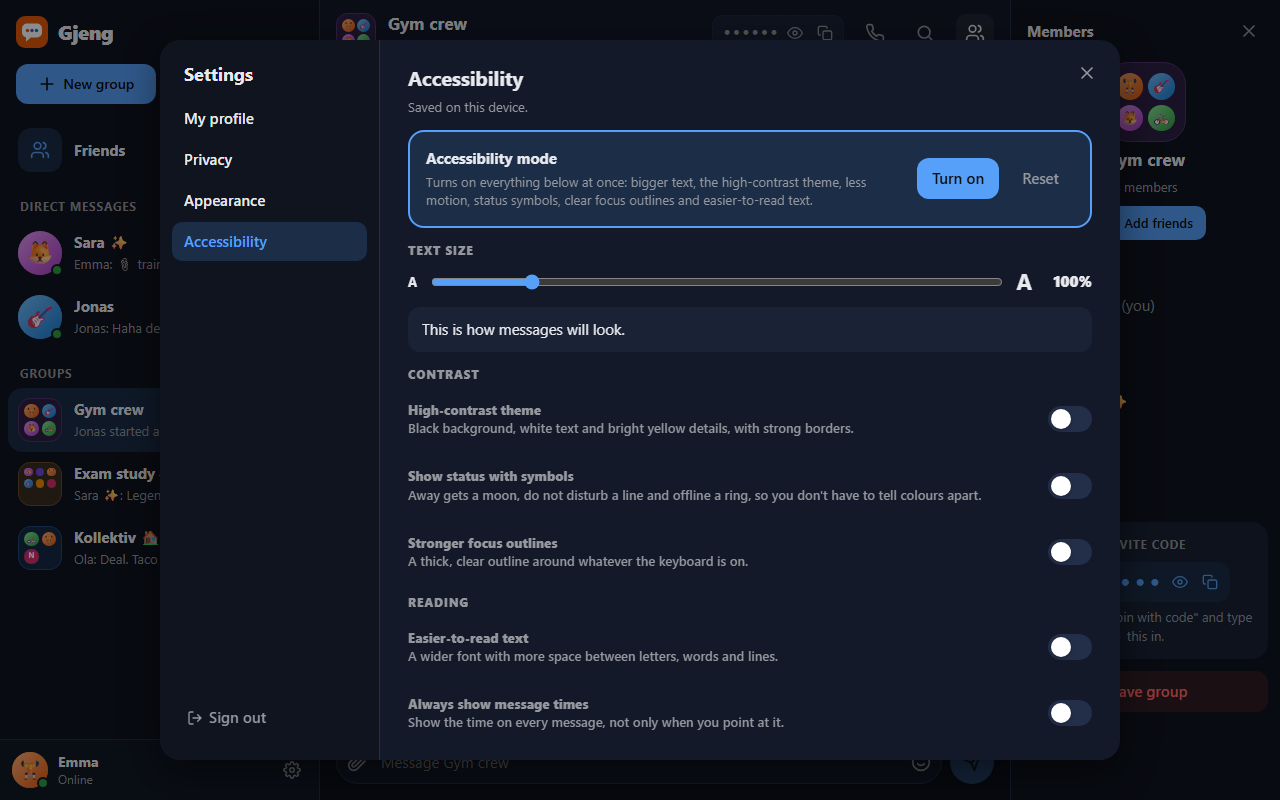
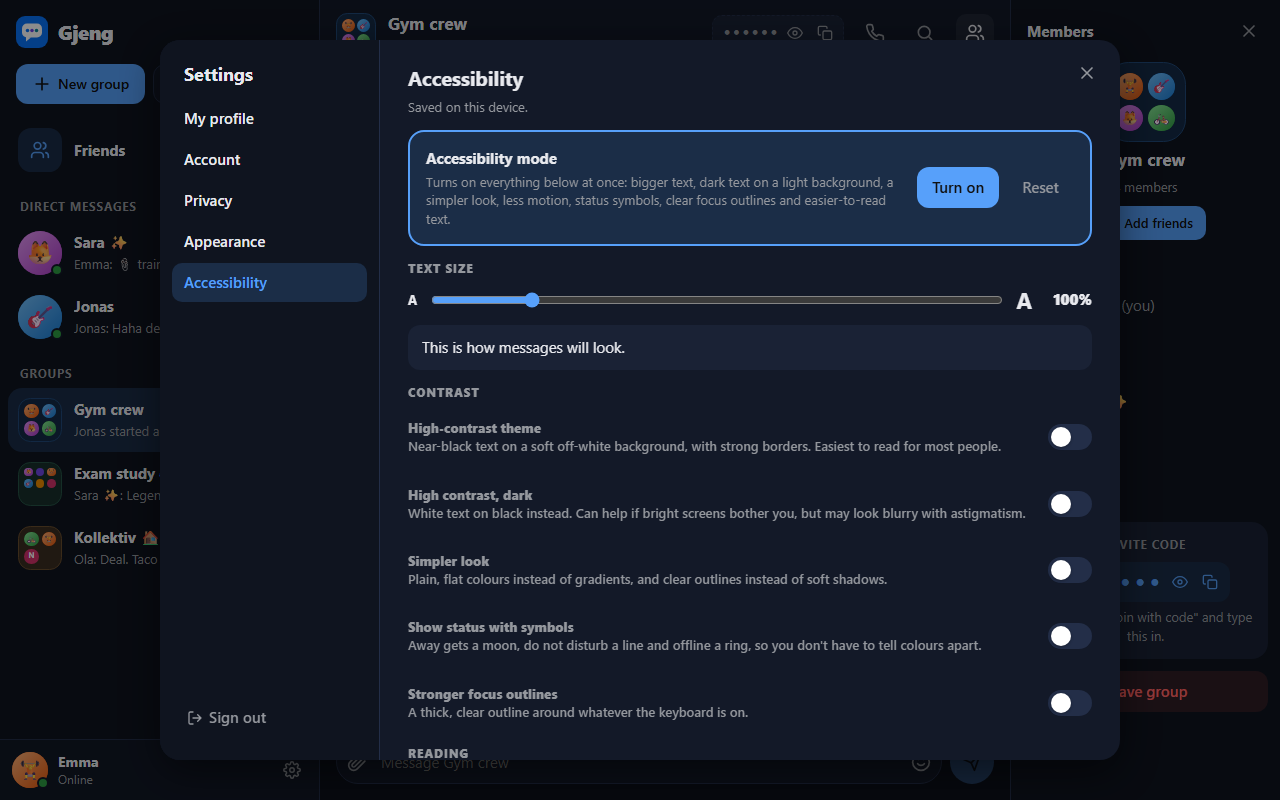
Make accessibility mode dark-on-light with a simpler look
Accessibility mode now uses a light high-contrast theme (near-black on a
warm off-white, about 18:1) instead of white on black, which reads
better for most people and avoids blur with astigmatism and glare for
dyslexic readers. White on black stays available as "High contrast
dark". A new "Simpler look" setting removes gradients and soft shadows
in favour of flat colours and clear outlines. Sidebar buttons wrap
instead of overflowing with bigger text. A test checks the light
background and a contrast of at least 7:1.

diff --git a/client/src/prefs.jsx b/client/src/prefs.jsx
@@ -16,13 +16,19 @@ export const THEMES = {
   'retro-dark': { label: 'Retro dark', dark: true, base: '#0b1a12', accent: '#3ddc84', text: '#b6f5c8', font: 'retro' },
   midnight: { label: 'Midnight', dark: true, base: '#101a33', accent: '#60a5fa' },
   forest: { label: 'Forest', dark: true, base: '#10251b', accent: '#86d993' },
-  'high-contrast': { label: 'High contrast', dark: true, base: '#000000', accent: '#ffd400', text: '#ffffff', contrast: 'high' },
+  // Dark text on a light background reads best for most people (white on black can blur, e.g. with
+  // astigmatism), so accessibility mode uses this one: near-black on a warm off-white, which keeps the
+  // contrast very high without the glare of pure white. The dark one is for light-sensitive eyes.
+  'high-contrast-light': { label: 'High contrast', dark: false, base: '#f7f3ea', accent: '#a33a00', text: '#111111', contrast: 'high' },
+  'high-contrast': { label: 'High contrast dark', dark: true, base: '#000000', accent: '#ffd400', text: '#ffffff', contrast: 'high' },
 };
 
 export const DEFAULT_APPEARANCE = { theme: 'system', base: null, accent: null, text: null };
 
 export const DEFAULT_ACCESSIBILITY = {
   textScale: 1,
+  simpleLook: false,
+  mode: false, // true while "accessibility mode" is on
   reduceMotion: 'system', // 'system' | 'on' | 'off'
   statusSymbols: false,
   strongFocus: false,
@@ -31,18 +37,21 @@ export const DEFAULT_ACCESSIBILITY = {
   announceMessages: true,
 };
 
-// "Accessibility mode": bigger text, high contrast, calm motion and clearer signals, all at once.
+// "Accessibility mode": bigger text, high contrast (black on white), a simpler look,
+// calm motion and clearer signals, all at once.
 export const ACCESSIBILITY_MODE = {
   accessibility: {
     ...DEFAULT_ACCESSIBILITY,
+    mode: true,
     textScale: 1.15,
+    simpleLook: true,
     reduceMotion: 'on',
     statusSymbols: true,
     strongFocus: true,
     readableText: true,
     alwaysShowTimes: true,
   },
-  appearance: { ...DEFAULT_APPEARANCE, theme: 'high-contrast' },
+  appearance: { ...DEFAULT_APPEARANCE, theme: 'high-contrast-light' },
 };
 
 const prefersDark = () => window.matchMedia('(prefers-color-scheme: dark)').matches;
@@ -93,6 +102,7 @@ export function applyAccessibility(a) {
   root.classList.toggle('reduce-motion', reduce);
   root.classList.toggle('status-symbols', a.statusSymbols);
   root.classList.toggle('strong-focus', a.strongFocus);
+  root.classList.toggle('simple-look', a.simpleLook);
   root.classList.toggle('readable-text', a.readableText);
   root.classList.toggle('always-times', a.alwaysShowTimes);
 }

diff --git a/client/src/components/settings/AccessibilitySettings.jsx b/client/src/components/settings/AccessibilitySettings.jsx
@@ -21,15 +21,22 @@ export default function AccessibilitySettings() {
         <div>
           <strong>Accessibility mode</strong>
           <span className="hint">
-            Turns on everything below at once: bigger text, the high-contrast theme, less motion, status symbols, clear
-            focus outlines and easier-to-read text.
+            Turns on everything below at once: bigger text, dark text on a light background, a simpler look, less motion, status
+            symbols, clear focus outlines and easier-to-read text.
           </span>
         </div>
         <div className="accessibility-mode-buttons">
           <button type="button" className="button primary" onClick={turnOnAccessibilityMode}>
             Turn on
           </button>
-          <button type="button" className="button quiet" onClick={() => setAccessibility(DEFAULT_ACCESSIBILITY)}>
+          <button
+            type="button"
+            className="button quiet"
+            onClick={() => {
+              setAccessibility(DEFAULT_ACCESSIBILITY);
+              if (appearance.theme.startsWith('high-contrast')) setAppearance({ theme: 'system' });
+            }}
+          >
             Reset
           </button>
         </div>
@@ -63,9 +70,21 @@ export default function AccessibilitySettings() {
         <legend>Contrast</legend>
         <Switch
           title="High-contrast theme"
-          description="Black background, white text and bright yellow details, with strong borders."
+          description="Near-black text on a soft off-white background, with strong borders. Easiest to read for most people."
+          checked={appearance.theme === 'high-contrast-light'}
+          onChange={(on) => setAppearance({ theme: on ? 'high-contrast-light' : 'system' })}
+        />
+        <Switch
+          title="High contrast, dark"
+          description="White text on black instead. Can help if bright screens bother you, but may look blurry with astigmatism."
           checked={appearance.theme === 'high-contrast'}
           onChange={(on) => setAppearance({ theme: on ? 'high-contrast' : 'system' })}
+        />
+        <Switch
+          title="Simpler look"
+          description="Plain, flat colours instead of gradients, and clear outlines instead of soft shadows."
+          checked={a.simpleLook}
+          onChange={(simpleLook) => setAccessibility({ simpleLook })}
         />
         <Switch
           title="Show status with symbols"

diff --git a/client/src/styles.css b/client/src/styles.css
@@ -467,11 +467,16 @@ legend {
   margin-left: auto;
 }
 
+/* Side by side when they fit; with bigger text they wrap onto two rows instead of sticking out. */
 .sidebar-actions {
-  display: grid;
-  grid-template-columns: 1fr 1fr;
+  display: flex;
+  flex-wrap: wrap;
   gap: 8px;
   padding: 4px 16px 12px;
+}
+
+.sidebar-actions .button {
+  flex: 1 1 auto;
 }
 
 /* The sidebar measures its own width, so its buttons can react when it's dragged narrow. */
@@ -3113,6 +3118,36 @@ html.status-symbols .presence-dot.dnd::after {
 html.status-symbols .presence-dot.offline {
   background: var(--surface);
   box-shadow: inset 0 0 0 3px var(--muted);
+}
+
+/* Simpler look: no gradients or soft shadows. Floating things get a clear outline instead. */
+html.simple-look .join {
+  background: var(--bg);
+}
+
+html.simple-look .join-card,
+html.simple-look .modal,
+html.simple-look .settings,
+html.simple-look .profile-modal,
+html.simple-look .emoji-picker,
+html.simple-look .status-menu,
+html.simple-look .reaction-picker,
+html.simple-look .incoming-call,
+html.simple-look .toast {
+  border: 2px solid var(--text);
+  box-shadow: none;
+}
+
+html.simple-look .call-stage {
+  background: #1b1d22;
+}
+
+html.simple-look .group-avatar {
+  background: var(--surface-2);
+}
+
+html.simple-look .overlay {
+  background: rgb(0 0 0 / 0.6);
 }
 
 /* Retro themes use a typewriter-style font. */

diff --git a/e2e/settings.spec.js b/e2e/settings.spec.js
@@ -178,6 +178,22 @@ test('accessibility: text size, accessibility mode, and the option on sign-up', 
   await expect(html).toHaveClass(/status-symbols/);
   await expect(html).toHaveClass(/strong-focus/);
   await expect(html).toHaveAttribute('data-contrast', 'high');
+  await expect(html).toHaveClass(/simple-look/);
+
+  // Dark text on a light background (easier for most people), with the strictest contrast level (7:1).
+  const colours = await ada.evaluate(() => {
+    const style = getComputedStyle(document.documentElement);
+    const lum = (hex) => {
+      const [r, g, b] = [1, 3, 5].map((i) => parseInt(hex.trim().slice(i, i + 2), 16) / 255);
+      const f = (v) => (v <= 0.03928 ? v / 12.92 : ((v + 0.055) / 1.055) ** 2.4);
+      return 0.2126 * f(r) + 0.7152 * f(g) + 0.0722 * f(b);
+    };
+    const bg = lum(style.getPropertyValue('--bg'));
+    const text = lum(style.getPropertyValue('--text'));
+    return { bg, ratio: (Math.max(bg, text) + 0.05) / (Math.min(bg, text) + 0.05) };
+  });
+  expect(colours.bg).toBeGreaterThan(0.8);
+  expect(colours.ratio).toBeGreaterThanOrEqual(7);
 
   // The same thing straight from sign-up.
   const bo = await newPerson(browser, 'Bo', { accessibility: true });

diff --git a/client/src/components/JoinScreen.jsx b/client/src/components/JoinScreen.jsx
@@ -76,8 +76,8 @@ export default function JoinScreen({ onSignIn }) {
   const [demoUsers, setDemoUsers] = useState([]);
   const [busy, setBusy] = useState(false);
   const [error, setError] = useState(null);
-  const { appearance, turnOnAccessibilityMode, resetAll } = usePrefs();
-  const accessibilityOn = appearance.theme === 'high-contrast';
+  const { accessibility, turnOnAccessibilityMode, resetAll } = usePrefs();
+  const accessibilityOn = accessibility.mode;
   const trimmed = name.trim();
   const creating = mode === 'create';
   const check = useUsernameCheck(creating ? trimmed : '');
@@ -210,7 +210,7 @@ export default function JoinScreen({ onSignIn }) {
             />
             <span>
               <strong>Turn on accessibility mode</strong>
-              <span className="hint">Bigger text, high contrast, less motion. You can fine-tune it later in Settings.</span>
+              <span className="hint">Bigger text, high contrast, a simpler look and less motion. You can fine-tune it later in Settings.</span>
             </span>
           </label>
 

diff --git a/client/src/color.js b/client/src/color.js
@@ -78,7 +78,10 @@ export function buildTheme({ dark, base, accent, text, contrast: contrastLevel }
   const shade = (l, sat = s) => hslToHex([h, sat, l]);
 
   const levels = high
-    ? { bg: 0, sidebar: 0.03, surface: 0.06, surface2: 0.12, border: 0.85 }
+    ? dark
+      ? { bg: 0, sidebar: 0.03, surface: 0.06, surface2: 0.12, border: 0.85 }
+      : // Off-white rather than pure white: still about 18:1 with the text, but less glare (helps e.g. dyslexia).
+        { bg: 0.975, sidebar: 0.955, surface: 0.99, surface2: 0.915, border: 0.2 }
     : dark
       ? { bg: 0.075, sidebar: 0.09, surface: 0.115, surface2: 0.155, border: 0.21 }
       : { bg: 0.955, sidebar: 0.975, surface: 0.995, surface2: 0.92, border: 0.86 };

diff --git a/README.md b/README.md
@@ -24,9 +24,13 @@ Made for Mandatory Assignment 3 (Vibe Coding) at OsloMet. It was built with Clau
 | --- | --- |
 | <img src="docs/settings-appearance.png" alt="The Midnight theme and the colour wheels"> | <img src="docs/settings-accessibility.png" alt="Accessibility settings"> |
 
-| Searching messages | Retro dark theme, narrow sidebar |
+| Accessibility mode | Searching messages |
 | --- | --- |
-| <img src="docs/search.png" alt="Searching a chat for pizza"> | <img src="docs/retro-dark.png" alt="The Retro dark theme with the sidebar dragged narrow"> |
+| <img src="docs/accessibility-mode.png" alt="Accessibility mode: dark text on off-white, bigger text and clear outlines"> | <img src="docs/search.png" alt="Searching a chat for pizza"> |
+
+| Retro dark theme, narrow sidebar | Logging in |
+| --- | --- |
+| <img src="docs/retro-dark.png" alt="The Retro dark theme with the sidebar dragged narrow"> | <img src="docs/join.png" alt="Creating an account with a username and password"> |
 
 | Phone | Dark mode |
 | --- | --- |
@@ -38,8 +42,8 @@ Made for Mandatory Assignment 3 (Vibe Coding) at OsloMet. It was built with Clau
 - **Profiles:** upload a picture or pick a built-in one, and set a display name (spaces and emoji are fine), an "About me", a name colour and a banner (a colour or a picture). Your username stays the same, since friends add you by it.
 - **Profile cards:** click anyone's picture or name to see their card: banner, status, about me, when they joined, shared groups and mutual friends, with buttons to message or add them.
 - **Privacy:** choose who can send you friend requests (everyone, friends of friends, no one), who can see your friends (everyone, friends of friends, friends, no one), and whether others see when you're online. The server enforces it.
-- **Appearance:** themes (Light, Dark, Cream, Retro, Retro dark, Midnight, Forest, High contrast), plus **colour wheels** for the background, the details and the text. Text colours too close to the background are adjusted until they're readable. The Gjeng logo (and the browser tab icon) follow the details colour, and the speech bubble turns dark if the colour gets too light for a white one.
-- **Accessibility:** text size, a high-contrast theme, less motion, status shown with symbols (not only colours), stronger focus outlines, easier-to-read text, always-visible message times, and screen-reader announcements. **Accessibility mode** turns it all on at once, and you can tick it when you sign up.
+- **Appearance:** themes (Light, Dark, Cream, Retro, Retro dark, Midnight, Forest, High contrast, High contrast dark), plus **colour wheels** for the background, the details and the text. Text colours too close to the background are adjusted until they're readable. The Gjeng logo (and the browser tab icon) follow the details colour, and the speech bubble turns dark if the colour gets too light for a white one.
+- **Accessibility:** text size, high-contrast themes (near-black on off-white by default, or white on black), a simpler look without gradients and shadows, less motion, status shown with symbols (not only colours), stronger focus outlines, easier-to-read text, always-visible message times, and screen-reader announcements. **Accessibility mode** turns it all on at once, and you can tick it when you sign up.
 - **Status:** Online, Away or Do not disturb, shown bottom-left and as a coloured dot for everyone else. Do not disturb hides incoming call pop-ups.
 - **Groups:** create a group, add your friends straight in or share an invite code. The code stays **hidden** (••••••) until you press Show, so people next to you can't read it off your screen.
 - **Live chat:** messages show up instantly. It also shows "Jonas is typing…" and who is online. Your own messages have a thin coloured bar on the left.

diff --git a/BUILD_LOG.md b/BUILD_LOG.md
@@ -284,11 +284,38 @@ How it was tested:
 
 Problem found and fixed: **a device that was logged out kept trying to reconnect forever** instead of showing "Log in again". The server said "you were logged out" and then closed the connection, and the app treated the closing as a network hiccup, which overwrote the message. The test for password changes caught it.
 
-## 13. What surprised me
+## 13. Making accessibility mode actually easier to read
+
+My prompts:
+
+- *"Is white text on black background better for accessibility than the other way around?"*
+- *"I just mean the accessibility mode when registering. Should it not use a less complex design and background? I feel the white text on black background may be harder for an accessibility theme."*
+- *"Do what's right with what studies show. The importance is that it's accessible."*
+
+What the AI explained:
+
+- **Contrast is the same both ways.** Black on white and white on black both have the maximum contrast ratio (21:1).
+- **Most people read dark text on a light background a little better**, especially longer text.
+- **White text on black can look blurry or "glowing"** for people with astigmatism, which is roughly a third of people to some degree.
+- **Light text on dark helps people who are sensitive to bright light.**
+- **Dyslexia guidance** (for example from the British Dyslexia Association) recommends avoiding *pure* white with *pure* black because of the glare.
+
+So I was right that the first version (white on black) wasn't the best default. What changed:
+
+- **Accessibility mode now uses "High contrast" with near-black text on a warm off-white.** The contrast is still about 18:1, far above the strictest WCAG level (7:1), without the glare of pure white. The buttons use a deeper orange.
+- **The white-on-black version is still there as "High contrast dark"**, described as being for people bothered by bright screens.
+- **New "Simpler look" setting** (part of accessibility mode): flat colours instead of gradients, clear outlines instead of soft shadows, and a plain start screen.
+- A browser test now checks that accessibility mode gives a light background, text contrast of **at least 7:1**, and the simpler look.
+
+Found in the screenshots: with the bigger text, **"Join with code" stuck out past the sidebar**. The two buttons now wrap onto two rows when they don't fit side by side.
+
+![Accessibility mode](docs/accessibility-mode.png)
+
+## 14. What surprised me
 
 How efficient the AI was, and how well it understood what I meant even when my prompts weren't well structured.
 
-## 14. What I'd add next
+## 15. What I'd add next
 
 - Video and screen sharing in calls
 - Editing and deleting messages
